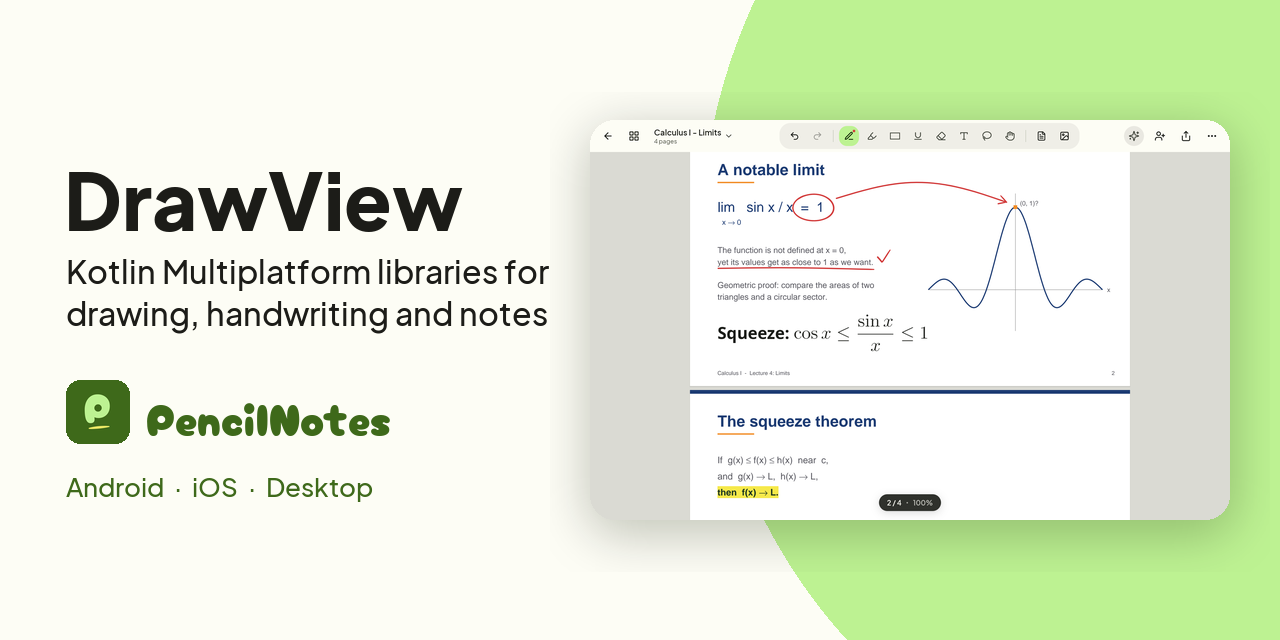
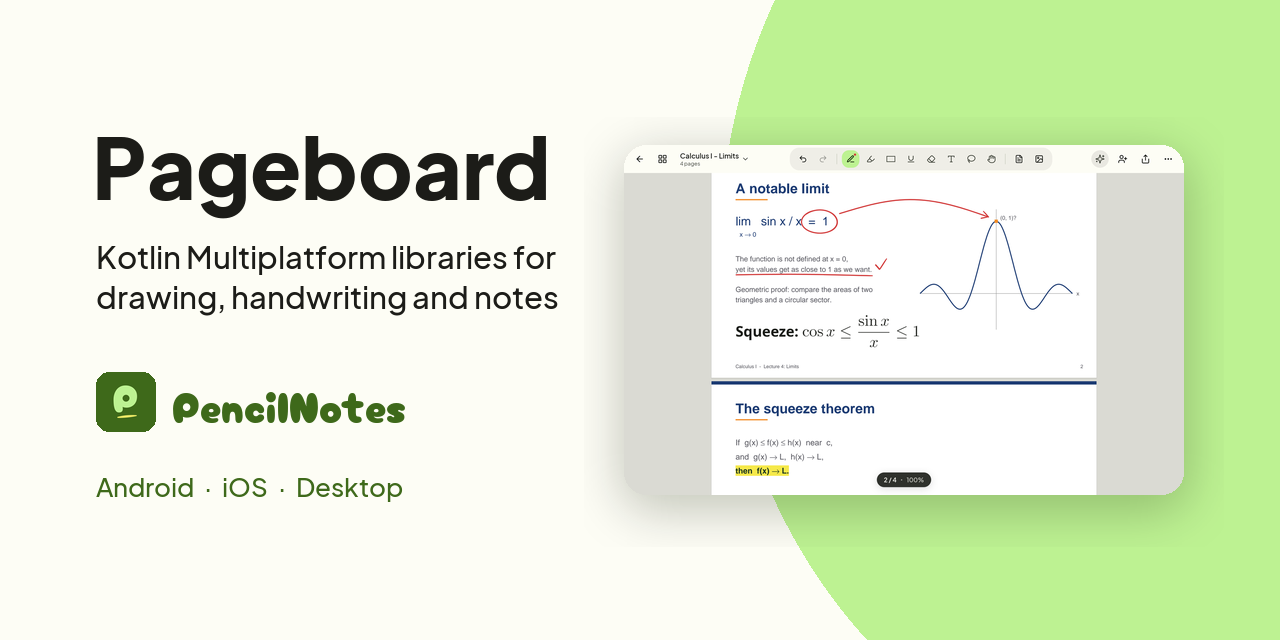
fix(store): the social preview named pageboard, inside the border github may crop

diff --git a/tools/store/graphics.py b/tools/store/graphics.py
@@ -1,6 +1,7 @@
 """The store graphics of PencilNotes: captioned screenshots, the feature graphic, the social preview.
 
 Usage: python -I graphics.py <shots dir> <repo dir>
+       python -I graphics.py --social-preview <repo dir>   (the social preview alone, from docs/images)
 """
 import os
 import sys
@@ -8,6 +9,7 @@ import sys
 from PIL import Image, ImageDraw, ImageFilter, ImageFont
 
 SHOTS, REPO = sys.argv[1], sys.argv[2]
+SOCIAL_ONLY = SHOTS == "--social-preview"
 FONT = os.path.join(REPO, "pageboard-ui/src/commonMain/composeResources/font")
 BOLD = os.path.join(FONT, "plus_jakarta_sans_extrabold.ttf")
 MEDIUM = os.path.join(FONT, "plus_jakarta_sans_medium.ttf")
@@ -133,23 +135,33 @@ def icon_512(locale):
 
 
 def social_preview():
-    """The preview GitHub shows for a link to the repository (1280x640)."""
-    w, h = 1280, 640
+    """The preview GitHub shows for a link to the repository (1280x640).
+
+    What matters stays 80 px (40 pt) from the edges, where GitHub may crop it; only the background
+    reaches them. The screenshot is the one of the README, docs/images/annotate.png.
+    """
+    w, h, safe = 1280, 640, 80
+    left, right = safe + 16, w - safe - 16
     canvas = Image.new("RGBA", (w, h), CREAM + (255,))
     d = ImageDraw.Draw(canvas)
-    d.ellipse((700, -300, 1700, 800), fill=LIGHT + (255,))
-    d.text((64, 150), "Pageboard", font=font(BOLD, 78), fill=INK)
-    d.text((66, 250), "Kotlin Multiplatform libraries for", font=font(MEDIUM, 32), fill=INK)
-    d.text((66, 292), "drawing, handwriting and notes", font=font(MEDIUM, 32), fill=INK)
-    icon = Image.open(ICON).convert("RGB").resize((64, 64), Image.LANCZOS)
-    canvas.alpha_composite(rounded(icon, 14), (66, 380))
-    d.text((146, 384), "PencilNotes", font=font(WORDMARK, 44), fill=GREEN)
-    d.text((66, 470), "Android  ·  iOS  ·  Desktop", font=font(MEDIUM, 26), fill=GREEN)
-    shot = Image.open(os.path.join(SHOTS, "tablet-1-annotate.png")).convert("RGB").resize((640, 400), Image.LANCZOS)
-    paste_shadowed(canvas, shot, 590, 120, 24)
+    d.ellipse((720, -300, 1720, 800), fill=LIGHT + (255,))
+    d.text((left - 4, 112), "Pageboard", font=font(BOLD, 84), fill=INK, anchor="la")
+    d.text((left, 236), "Kotlin Multiplatform libraries for", font=font(MEDIUM, 31), fill=INK)
+    d.text((left, 276), "drawing, handwriting and notes", font=font(MEDIUM, 31), fill=INK)
+    icon = Image.open(ICON).convert("RGB").resize((60, 60), Image.LANCZOS)
+    canvas.alpha_composite(rounded(icon, 13), (left, 372))
+    d.text((left + 76, 374), "PencilNotes", font=font(WORDMARK, 42), fill=GREEN)
+    d.text((left, 470), "Android  ·  iOS  ·  Desktop", font=font(MEDIUM, 26), fill=GREEN)
+    shot = Image.open(os.path.join(REPO, "docs/images/annotate.png")).convert("RGB")
+    sw = 560
+    shot = shot.resize((sw, int(shot.height * sw / shot.width)), Image.LANCZOS)
+    paste_shadowed(canvas, shot, right - sw, (h - shot.height) // 2, 22)
     canvas.convert("RGB").save(os.path.join(REPO, "docs/images/social-preview.png"), optimize=True)
 
 
+if SOCIAL_ONLY:
+    social_preview()
+    sys.exit()
 for name, locales in CAPTIONS.items():
     for locale, (title, subtitle) in locales.items():
         captioned(name, locale, title, subtitle)
